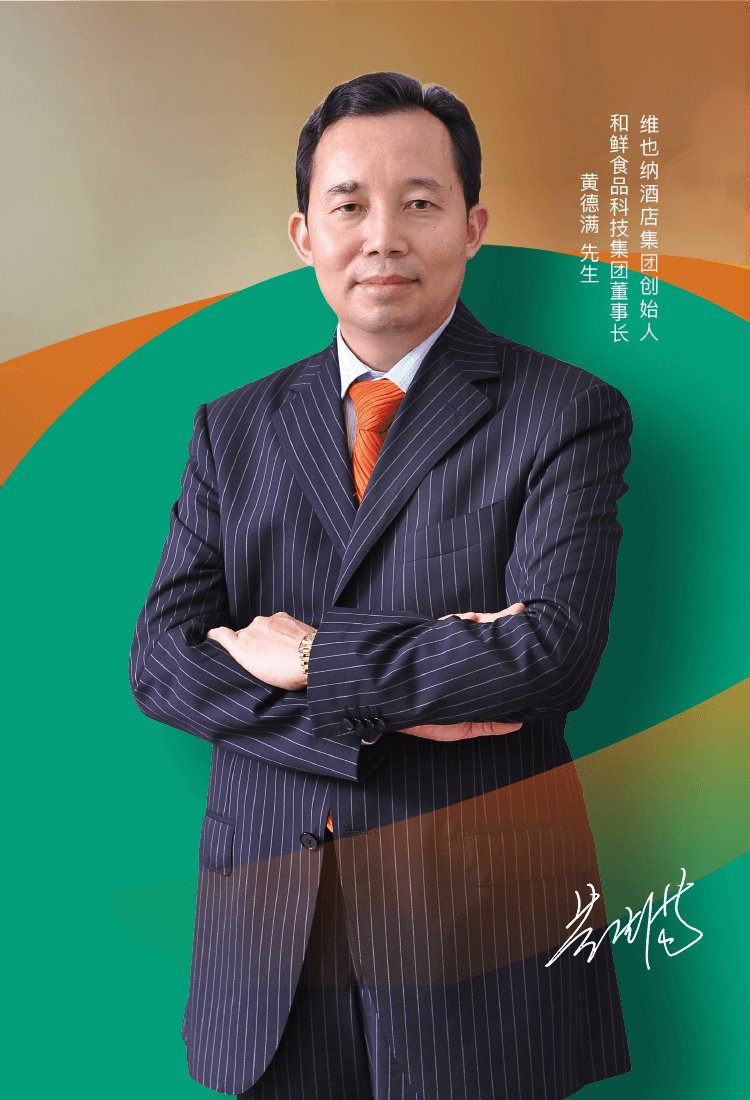
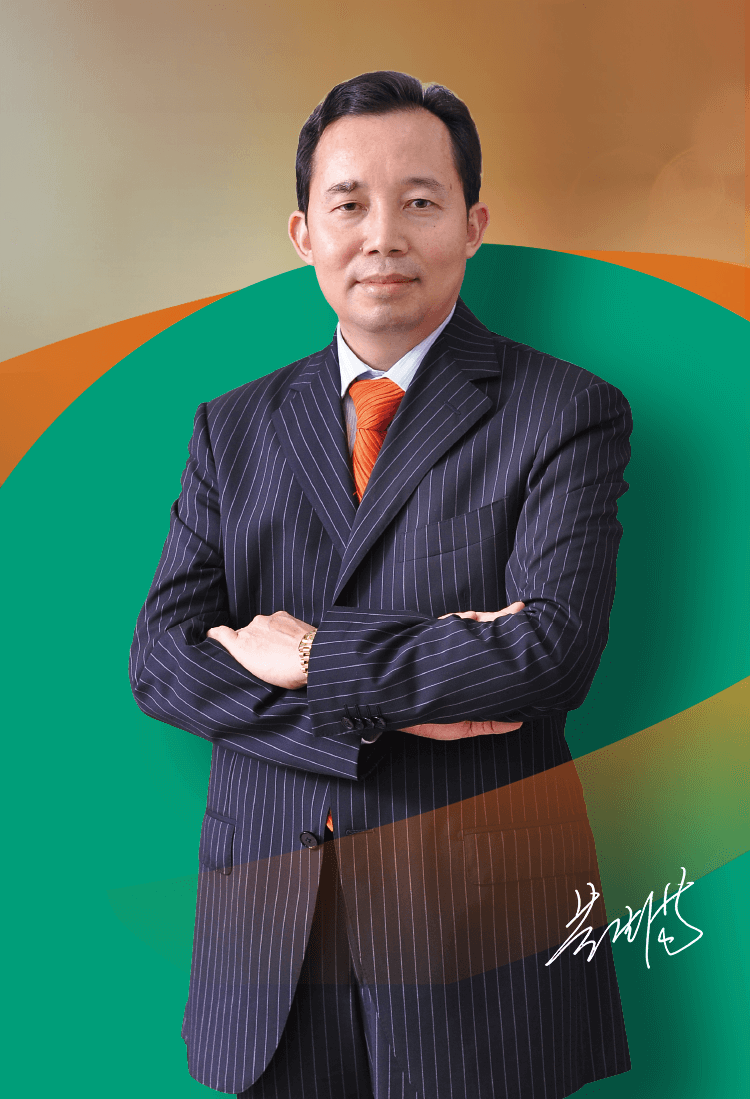
修改

diff --git a/h5/index.html b/h5/index.html
@@ -67,8 +67,13 @@
                         </p>
                         <p class="btn" onclick="location.href='./dynamic.html'">了解更多</p>
                     </div>
+                    <div class="shutext">
+                        <div>黄德满 <span>先生</span></div>
+                        <div>和鲜食品科技集团董事长</div>
+                        <div>维也纳酒店集团创始人</div>
+                    </div>
                     <!-- <a href="./dynamic.html"></a> -->
-                    <img src="./assets/images/和鲜-3深圳十大商业杰出人物和鲜创始人黄德满董事长1 (2).png">
+                    <img src="./assets/images/和鲜-3深圳十大商业杰出人物和鲜创始人黄德满董事长.png">
                 </li>
                 <li>
                     <div class="title">

diff --git a/Mobile/index.html b/Mobile/index.html
@@ -65,6 +65,11 @@
                         </p>
                         <p class="btn" onclick="location.href='./dynamic.html'">了解更多</p>
                     </div>
+                    <div class="shutext">
+                        <div>黄德满 <span>先生</span></div>
+                        <div>和鲜食品科技集团董事长</div>
+                        <div>维也纳酒店集团创始人</div>
+                    </div>
                     <img src="./assets/images/和鲜-手机版和鲜-手机版-首页-5_02.png">
                 </li>
                 <li>

diff --git a/Mobile/assets/style/index.css b/Mobile/assets/style/index.css
@@ -47,6 +47,33 @@
 }
 
 
+.shutext {
+    position: absolute;
+    display: flex;
+    /* align-items: center; */
+    top:1.10rem;
+    right: 0.87rem;
+}
+.shutext div {
+    font-size: 0.2rem;
+    line-height: 0.24rem;
+    color: #fff;
+    width: 0.2rem;
+    margin-left: 0.15rem;
+}
+.shutext div span{
+    display: inline-block;
+    margin-top: 0.1rem;
+}
+.shutext div:first-child {
+    margin-top: 0.6rem;
+}
+.shutext div:nth-child(2) {
+    line-height: 0.22rem;
+}
+.shutext div:last-child {
+    line-height: 0.235rem;
+}
 
 .infoList {
     position: absolute;

diff --git a/Mobile/product.html b/Mobile/product.html
@@ -372,7 +372,7 @@
                             }
                         }) 
                         $(".indexList_box").on("touchend",function(e){
-                            e.preventDefault();
+                            // e.preventDefault();
                             EndX = e.originalEvent.changedTouches[0].pageX
                             EndY = e.originalEvent.changedTouches[0].pageY
                             let tab_num = $(this).parent().find('.tab_check').find('.all_check').attr('data-id');

diff --git a/h5/assets/style/index.css b/h5/assets/style/index.css
@@ -107,7 +107,7 @@
 .shutext {
     position: absolute;
     display: flex;
-    align-items: center;
+    /* align-items: center; */
     top:4.26rem;
     right: 1.64rem;
 }
@@ -121,6 +121,15 @@
 .shutext div span{
     display: inline-block;
     margin-top: 0.1rem;
+}
+.shutext div:first-child {
+    margin-top: 0.6rem;
+}
+.shutext div:nth-child(2) {
+    line-height: 0.23rem;
+}
+.shutext div:last-child {
+    line-height: 0.24rem;
 }
 /* .logo {
     width: 124px;
